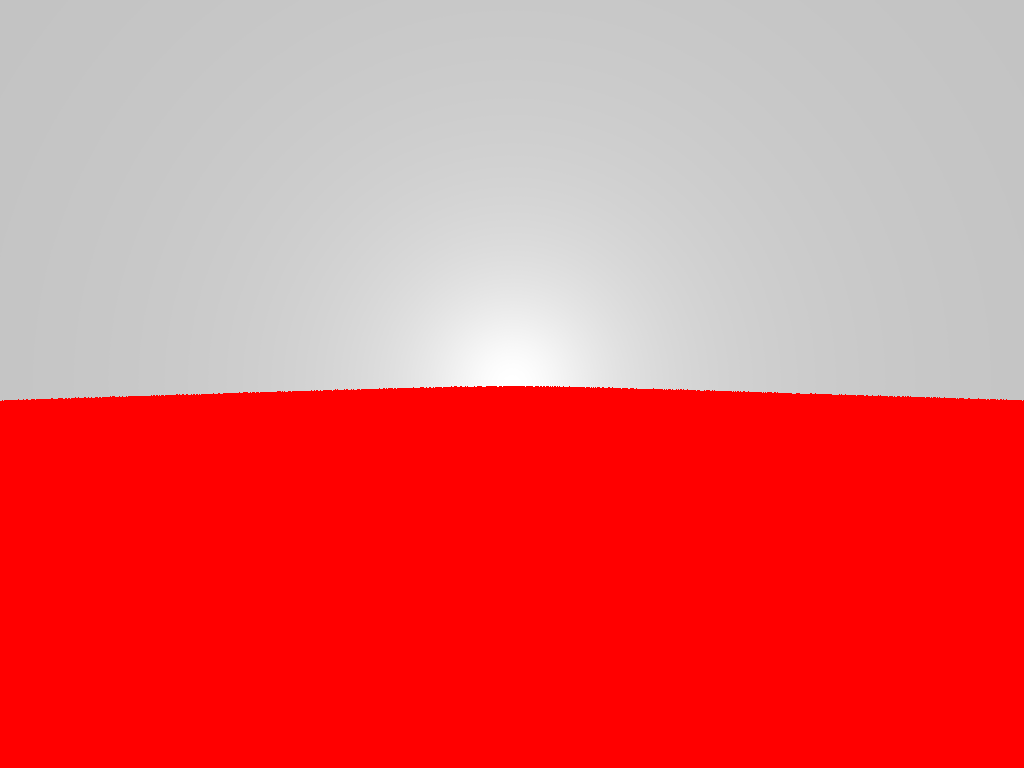
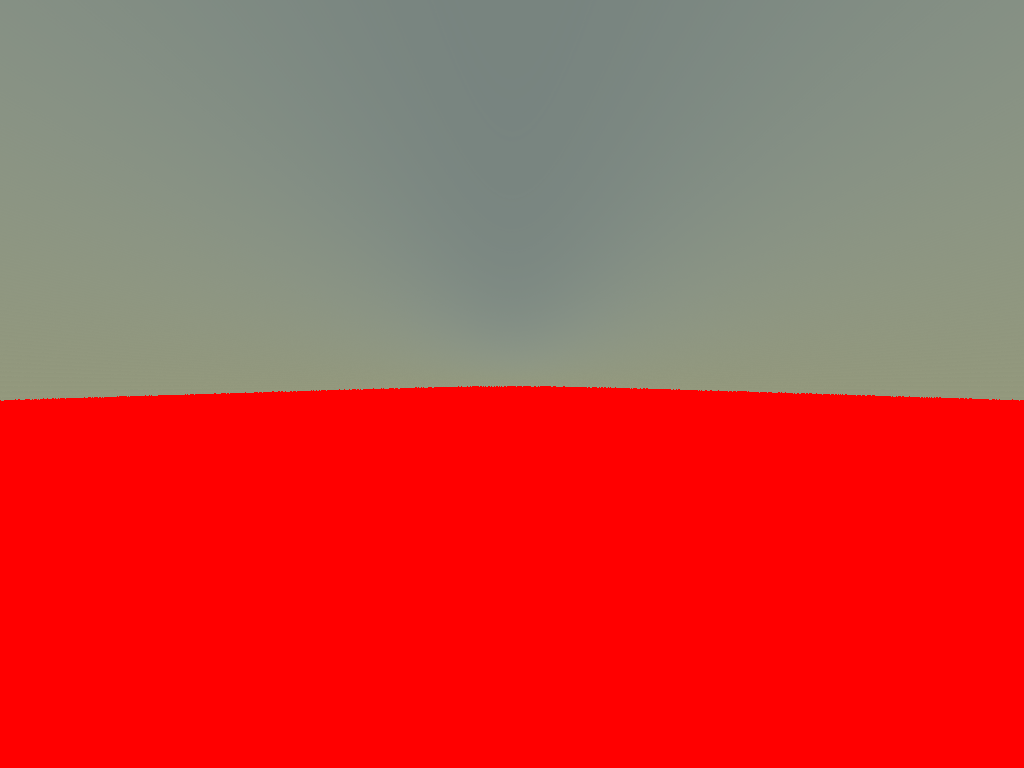
Added features

diff --git a/src/edu/umass/cs390cg/atmosphere/ScatteringEquations.java b/src/edu/umass/cs390cg/atmosphere/ScatteringEquations.java
@@ -32,8 +32,9 @@ public class ScatteringEquations {
     public static double Km = 0.0015d;
     public static double Kr4Pi = Kr * 4 * PI;
     public static double Km4pi = Km * 4 * PI;
-    public static double KrESun = 0.0000025d * 10;
-    public static double KmESun = 0.00015d * 10;
+    public static double ESun = 150.d;
+    public static double KrESun = Kr*ESun;
+    public static double KmESun = Km*ESun;
 
     public static final double Mie_G = -.8d;
     public static double KMie = 0.0015d;
@@ -64,53 +65,59 @@ public class ScatteringEquations {
     }
 
 
-
     public static Vector3d GetInScatter(final Ray ray, HitRecord hit) {
 
-        double rayLength = Subtract(hit.pos, ray.o).length();
+        double rayLength = Subtract(hit.pos, ray.o).length(); // good
+        double sampleLength = rayLength / samplesPerInScatterRay; // good
 
-        Vector3d startPoint = ray.o;
-        Vector3d endPoint = hit.pos;
-        double cameraHeight = height(startPoint);
-        final double cameraDepth = exp(scaleOverScaleDepth * (terrain.radius - cameraHeight));
+        Vector3d startPoint = ray.o; // good
+        Vector3d endPoint = hit.pos; // good
 
-        final double startAngle = ray.d.dot(startPoint) / cameraHeight;
-        final double startOffset = cameraDepth * scale(startAngle);
+        double cameraHeight = height(startPoint); // good
+        final double cameraDepth = exp(scaleOverScaleDepth * (terrain.radius - cameraHeight));//good
 
-        double sampleLength = rayLength / samplesPerInScatterRay;
-        final double scaledLength = sampleLength * scale;
-
-        Vector3d RaySegment = Scale(ray.d, sampleLength);
-        Vector3d SamplePoint = Add(startPoint, Scale(RaySegment, 0.5d));
+        final double startAngle = ray.d.dot(startPoint) / cameraHeight; // good?
+        final double startOffset = cameraDepth * scale(startAngle); // good
 
 
         Vector3d myColor = Integrals.estimateIntegral(
                 new Function() {
                     @Override
                     public Vector3d evaluate(Object[] args) {
-                        Vector3d v = (Vector3d) args[0];
-                        double sampleHeight = height(v);
-                        double depth = exp(scaleOverScaleDepth * (terrain.radius - sampleHeight));
-                        double lightAngle = v.dot(r.scene.sun.d) / sampleHeight;
-                        double cameraAngle = v.dot(ray.d) / sampleHeight;
+
+                        Vector3d samplePoint = (Vector3d) args[0];
+                        double sampleHeight = height(samplePoint);
+                        double sampleDepth = exp(scaleOverScaleDepth * (terrain.radius - sampleHeight));
+                        double lightAngle = samplePoint.dot(r.scene.sun.d) / sampleHeight;
+                        double cameraAngle = samplePoint.dot(ray.d) / sampleHeight;
 
                         double forwardScatter = (startOffset +
-                                cameraDepth * (scale(lightAngle) - scale(cameraAngle)));
+                                sampleDepth * (scale(lightAngle) - scale(cameraAngle)));
 
-                        Vector3d lightToAttenuate = Scale(Add(Scale(InvWavelength, Kr4Pi), Km4pi), -forwardScatter);
+
+                        Vector3d lightToAttenuate =
+                                Scale(
+                                    Add(
+                                        Scale(InvWavelength, Kr4Pi),
+                                        Km4pi),
+                                -forwardScatter);
 
                         Vector3d addedLight = new Vector3d(
                                 exp(lightToAttenuate.x),
                                 exp(lightToAttenuate.y),
                                 exp(lightToAttenuate.z));
-                        return Scale(addedLight, depth);
+                        return Scale(addedLight, sampleDepth);
                     }
                 },
                 startPoint, endPoint, scale, samplesPerOutScatterRay
         );
-        myColor = Scale(myColor, r.scene.sun.color);
-        Vector3d RayleighColor = Scale(Scale(Scale(myColor, InvWavelength), Kr), RayleighPhaseFunction(startAngle));
-        Vector3d MieColor = Scale(Scale(myColor, Km), MiePhaseFunction(startAngle, Mie_G));
+
+        double cos = r.scene.sun.d.dot(ray.d);
+
+        System.out.println("cosine is " + cos);
+
+        Vector3d RayleighColor = Scale(Scale(Scale(myColor, InvWavelength), KrESun), RayleighPhaseFunction(startAngle));
+        Vector3d MieColor = Scale(Scale(myColor, KmESun), MiePhaseFunction(startAngle, Mie_G));
         return Add(RayleighColor, MieColor);
     }
 

diff --git a/src/edu/umass/cs390cg/atmosphere/RayTracer.java b/src/edu/umass/cs390cg/atmosphere/RayTracer.java
@@ -89,8 +89,8 @@ public class RayTracer {
     if(hit == null) return new Vector3d();
     else if(hit.type == HitRecord.HitType.TYPE_SKY) {
 
-      return ScatteringEquations.cosOfVectorsNormalized(ray.d, scene.sun.d);
-      //return scene.sky.calculateShading(ray, hit);
+      //return ScatteringEquations.cosOfVectorsNormalized(ray.d, scene.sun.d);
+      return scene.sky.calculateShading(ray, hit);
     }
     else {
       //return new Color3f();
